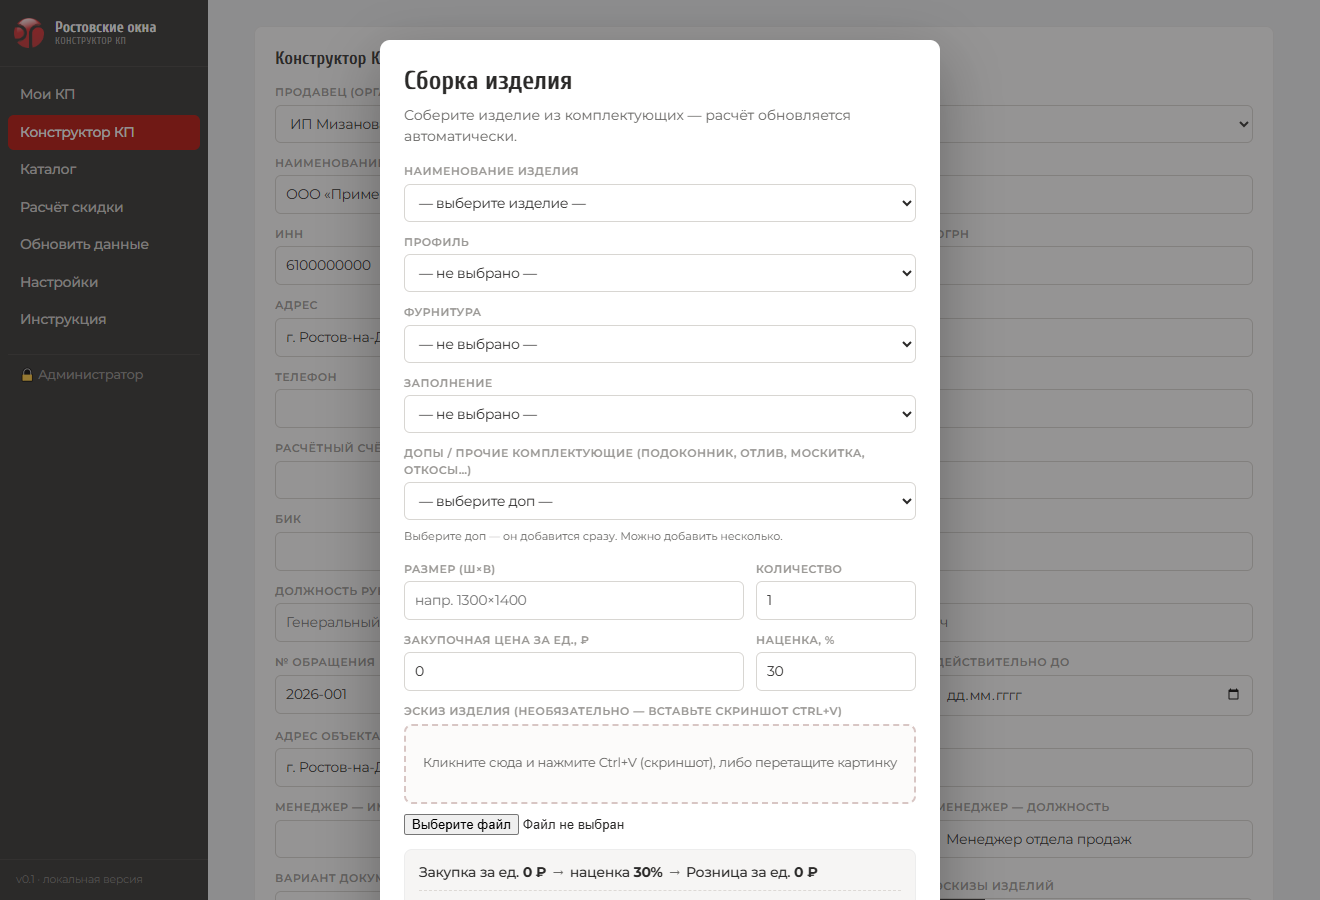
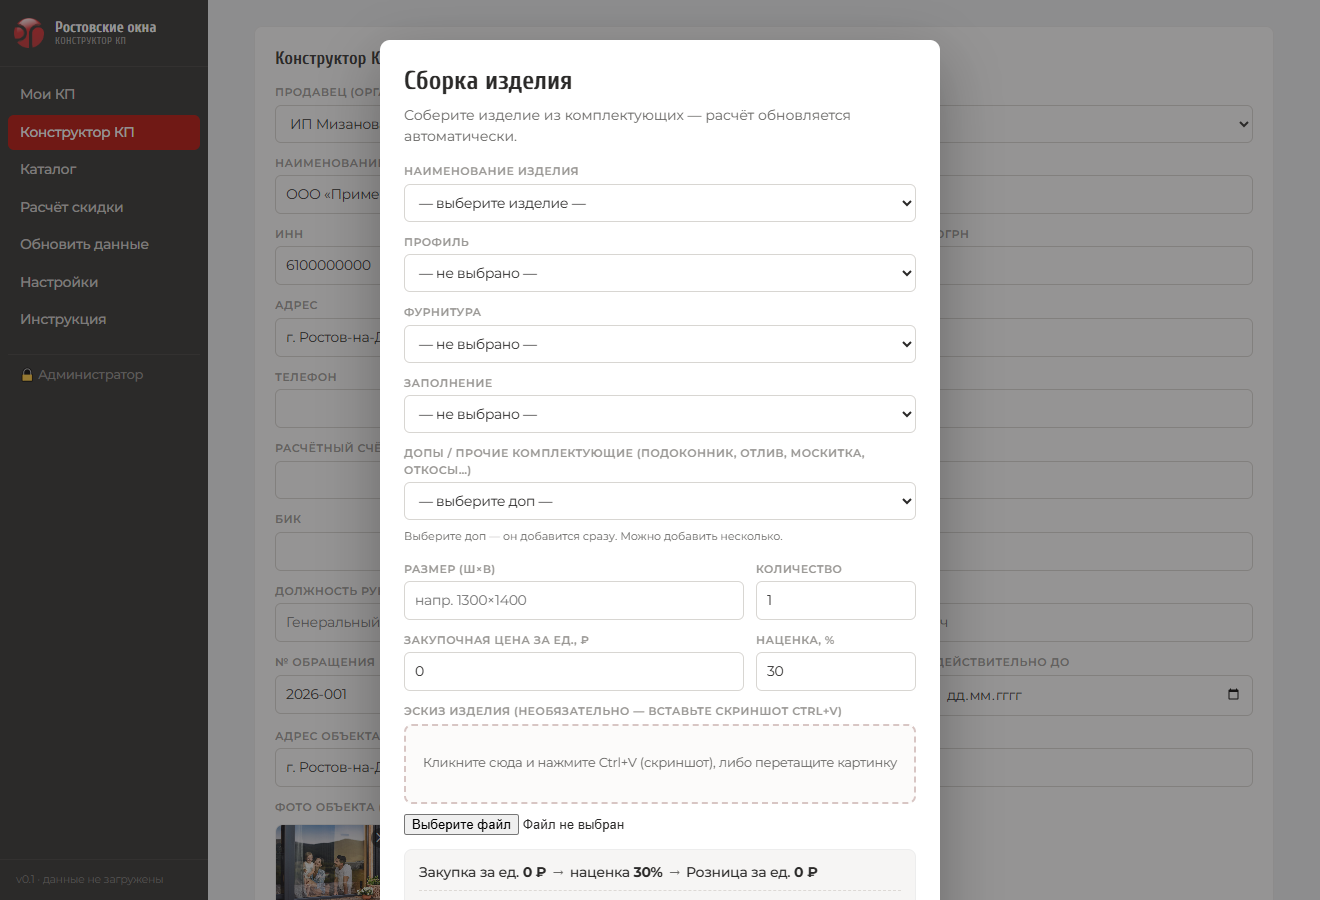
Публикация: обновлённая инструкция + скрины

Changed region(s): [[0.1864, 0.8711, 0.3106, 1.0], [0.7144, 0.9644, 0.8076, 1.0], [0.7144, 0.8711, 0.8386, 0.9022]]

diff --git a/js/view-help.js b/js/view-help.js
@@ -67,8 +67,12 @@ export function helpBodyHtml(){
       <li><b>№ обращения, Дата, Действительно до, Адрес объекта, Менеджер.</b></li>
       <li><b>Вариант документа</b>: Премиум (физлицо), КП (юрлицо), Оферта (счёт-оферта).</li>
       <li><b>НДС в документе</b>: «Показывать» или «Скрыть» (напр. для физлиц при наличной оплате).</li>
+      <li><b>Фото объекта</b> (для юрлиц) — под адресом можно добавить фото объекта для презентации: вставьте <code>Ctrl+V</code> прямо из проекта, перетащите файл или выберите с диска (можно несколько). Эти фото попадут в документ КП/Оферты под адресом объекта.</li>
     </ul>
-    ${fig('02-konstruktor.png', 'Конструктор КП — шапка с данными продавца и покупателя')}
+    ${fig('02-konstruktor.png', 'Конструктор КП — шапка с данными продавца и покупателя; внизу — блок «Фото объекта»')}
+
+    <p>Ниже шапки — <b>три раздела</b> в строгом порядке: <b>Продукция</b> → <b>Дополнительные материалы</b> → <b>Услуги</b>. У каждого своя кнопка добавления и свой подытог.</p>
+    ${fig('08-razdely.png', 'Три раздела КП: продукция, дополнительные материалы, услуги — каждый со своим подытогом')}
 
     <h4>Шаг 3. Добавить изделия (раздел «Продукция»)</h4>
     <p>Нажмите <b>«+ Добавить изделие»</b> — откроется окно сборки:</p>
@@ -82,12 +86,15 @@ export function helpBodyHtml(){
     ${fig('03-sborka-izdeliya.png', 'Окно «Сборка изделия» — комплектующие, размер, цена, эскиз')}
     <div class="help-note">Любого пункта нет в списке? Выберите <b>«+ создать новый…»</b> — откроется форма, новая позиция добавится в каталог и сразу подставится.</div>
 
-    <h4>Шаг 4. Добавить услуги (раздел «Услуги»)</h4>
+    <h4>Шаг 4. Добавить доп. материалы (раздел «Дополнительные материалы»)</h4>
+    <p><b>«+ Добавить материал»</b> → выберите материал из списка (Подоконник, Отлив, Москитная сетка, Откосы…), укажите размер, количество и цену. Список берётся из <b>Каталога</b>; нужного нет — выберите <b>«+ добавить новый…»</b> (добавится в каталог).</p>
+
+    <h4>Шаг 5. Добавить услуги (раздел «Услуги»)</h4>
     <p><b>«+ Добавить услугу»</b> → выберите услугу (Монтаж, Доставка, Демонтаж…), основание и впишите сумму вручную.</p>
 
-    <h4>Шаг 5. Скидка, НДС, условия</h4>
+    <h4>Шаг 6. Скидка, НДС, условия</h4>
     <ul>
-      <li><b>Скидка</b> применяется только к изделиям (на услуги не распространяется).</li>
+      <li><b>Скидка</b> применяется к изделиям и доп. материалам (на услуги не распространяется).</li>
       <li><b>НДС</b> берётся из выбранной организации; показывать его или нет — переключатель «НДС в документе».</li>
       <li><b>Условия и сроки</b> (срок изготовления, гарантия, оплата). Если оставить пусто — подставятся из настроек.</li>
     </ul>
@@ -120,7 +127,7 @@ export function helpBodyHtml(){
 
   <div class="card help-doc">
     <h3>7. Каталог</h3>
-    <p>Здесь можно править комплектацию по категориям, шаблоны изделий, услуги и основания. Новые позиции добавляются и здесь, и на лету при сборке изделия («+ создать новый…»).</p>
+    <p>Здесь можно править комплектацию по категориям, шаблоны изделий, <b>дополнительные материалы</b>, услуги и основания. Новые позиции добавляются и здесь, и на лету при сборке изделия / выборе материала («+ создать новый…»).</p>
     ${fig('05-katalog.png', 'Вкладка «Каталог»')}
   </div>
 
